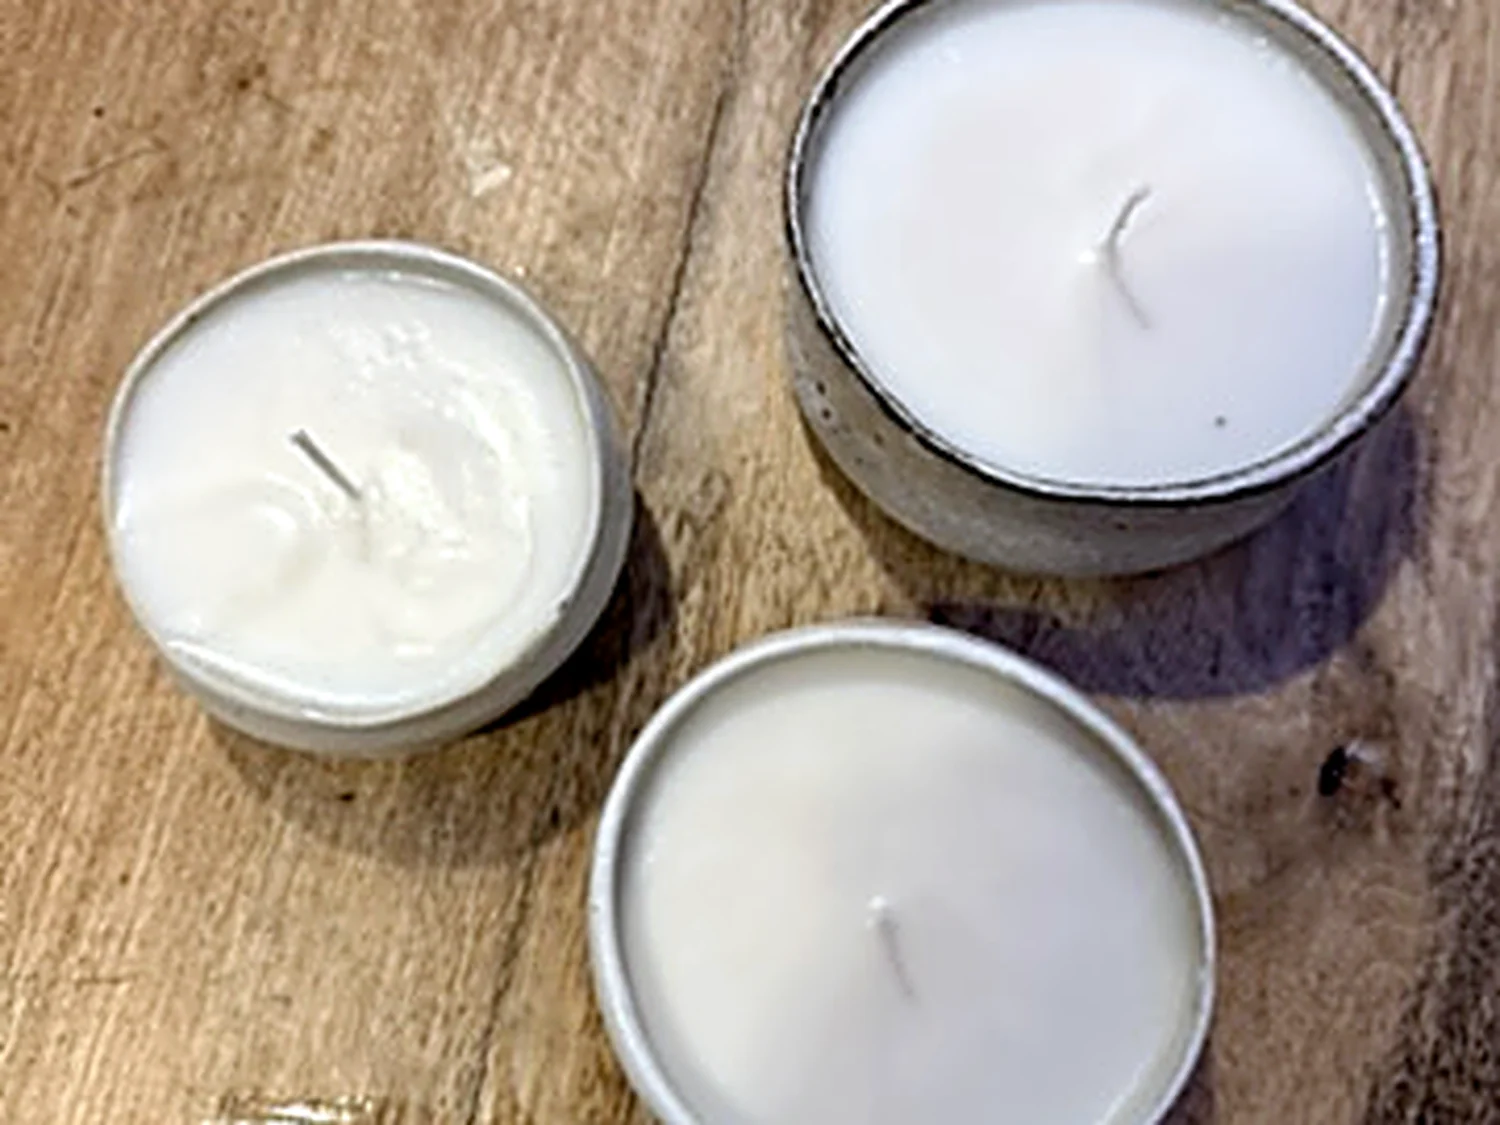
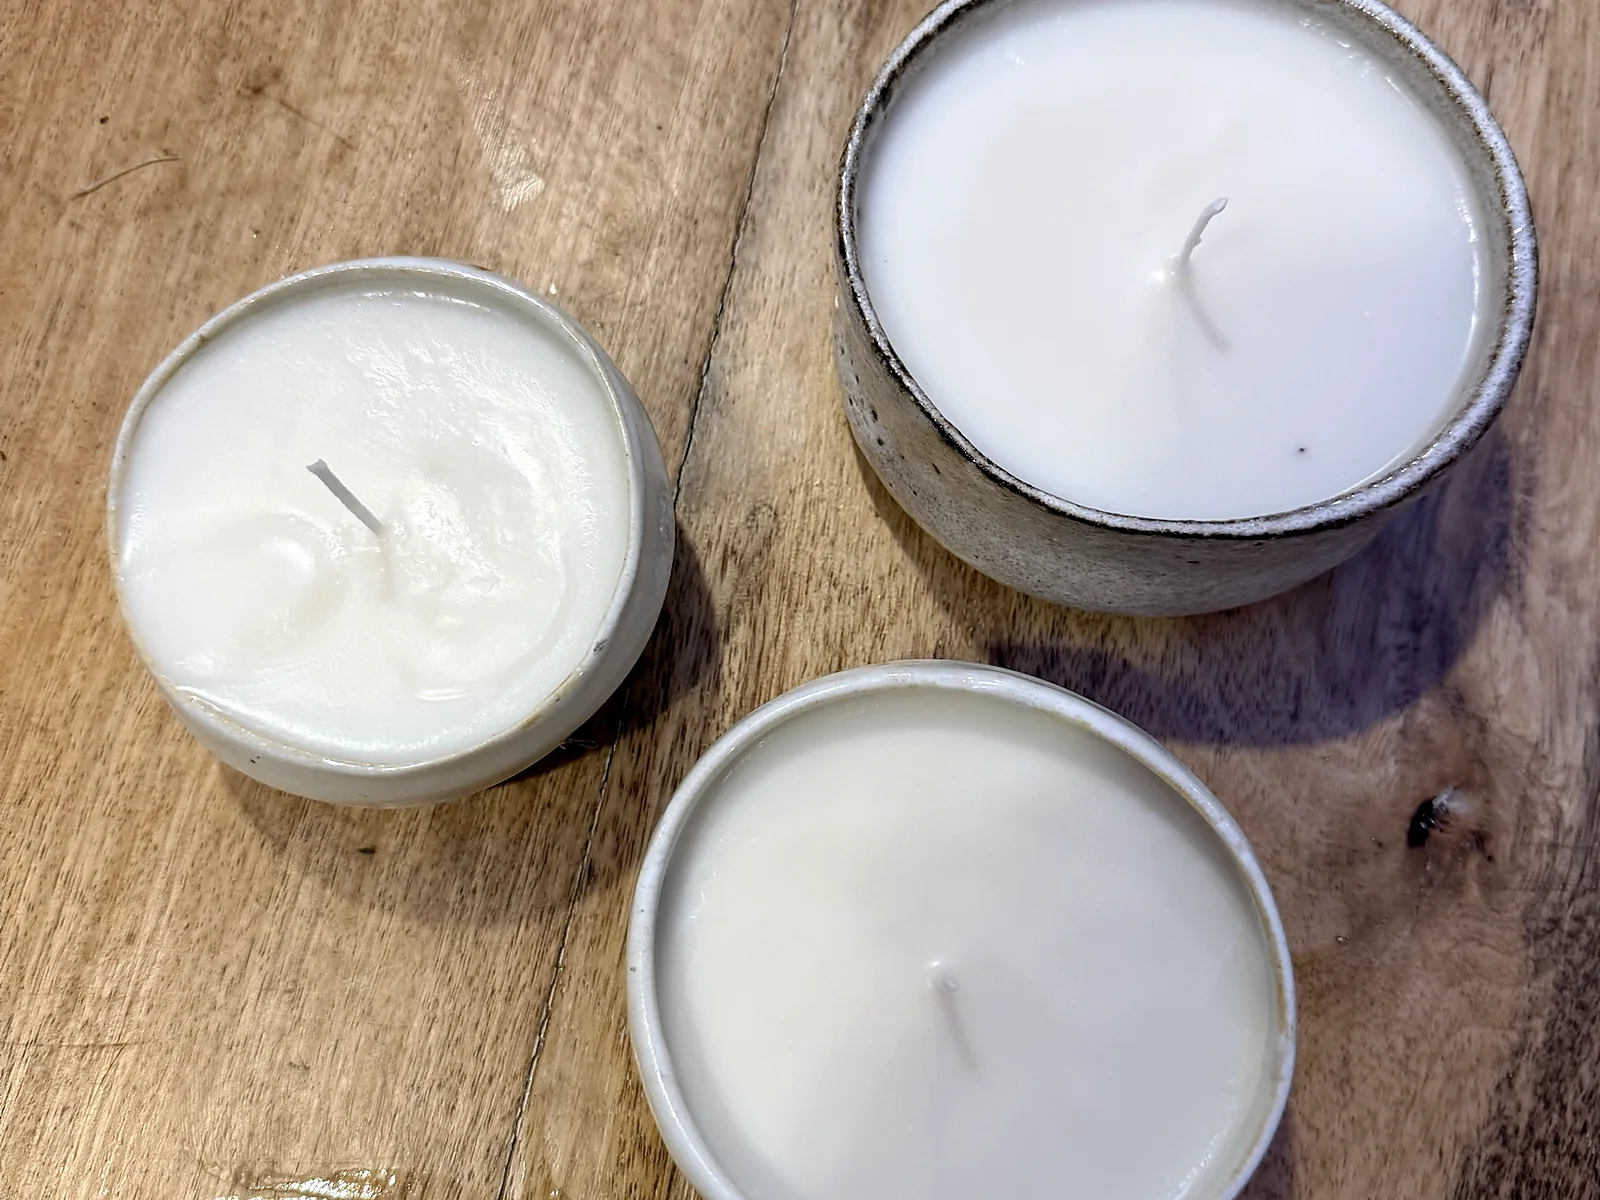
Add four pieces, and replace the candle photographs with the originals
Four new entries from the owner's photographs, each named for the
technique she described: a candle with cobalt run down over white, and
three small bowls that differ in both forming and glazing — one plain
white glaze over speckled clay, one whose glaze breaks into clouds
inside, and one pinched rather than thrown, keeping every mark of the
hand.

The two candle photographs added yesterday came through at 360x480 and
were soft. These are the same shots at 1512x2016 and 1932x2576, so they
now match the rest.

All nine were colour corrected the same way: the wax and the white glaze
read white instead of yellow, and the wood loses its orange cast. The
galaxy bowl was graded separately so the blues in its glaze survive the
correction rather than being neutralised with the rest.

The home page hero is now the three bowls together, which shows the range
of technique better than a single piece did.

Eight pieces on the site, 4.1 MB of images in all.

Claude-Session: https://claude.ai/code/session_01HBGCxSPKHGmMVJt7C3yJTt

diff --git a/js/products.js b/js/products.js
@@ -22,6 +22,52 @@ window.PRODUCTS = [
     featured: true
   },
   {
+    id: "blue-candle",
+    name: "Blue-Rimmed Candle",
+    name_el: "Κερί με Μπλε Χείλος",
+    desc: "Cobalt poured over the rim and left to run down the white, stopping where it wanted to. Filled with soy wax; wash it out when the candle is done and keep the bowl.",
+    desc_el: "Κοβάλτιο χυμένο από το χείλος, αφημένο να τρέξει πάνω στο λευκό και να σταματήσει όπου θέλησε. Γεμισμένο με κερί σόγιας· όταν τελειώσει, το πλένετε και κρατάτε το μπολ.",
+    category: "candles",
+    image: "assets/img/blue-candle.webp",
+    photo: true,
+    made: "2026-11",
+    featured: true
+  },
+  {
+    id: "galaxy-bowl",
+    name: "Galaxy Bowl",
+    name_el: "Μπολ Γαλαξίας",
+    desc: "A glaze that breaks into clouds and drifts inside the bowl — blues and greens settling where the fire took them. Plain white outside, so the inside does all the talking.",
+    desc_el: "Ένα γυάλωμα που σπάει σε σύννεφα μέσα στο μπολ — μπλε και πράσινα που κάθισαν όπου τα πήγε η φωτιά. Απ' έξω σκέτο λευκό, ώστε να μιλάει μόνο το μέσα.",
+    category: "bowls",
+    image: "assets/img/galaxy-bowl.webp",
+    photo: true,
+    made: "2026-11",
+    featured: true
+  },
+  {
+    id: "pinched-bowl",
+    name: "Pinched Bowl",
+    name_el: "Τσιμπητό Μπολ",
+    desc: "Built by pinching the clay between finger and thumb instead of throwing it, so the wall keeps every mark of being made. The rim rises and falls where the hand left it.",
+    desc_el: "Φτιαγμένο με τσίμπημα του πηλού ανάμεσα σε δάχτυλα, όχι στον τροχό, οπότε το τοίχωμα κρατάει κάθε σημάδι του φτιαξίματος. Το χείλος ανεβοκατεβαίνει εκεί που το άφησε το χέρι.",
+    category: "bowls",
+    image: "assets/img/pinched-bowl.webp",
+    photo: true,
+    made: "2026-11"
+  },
+  {
+    id: "white-bowl",
+    name: "White Bowl",
+    name_el: "Λευκό Μπολ",
+    desc: "A plain white glaze over speckled clay, and nothing else. The dark flecks come up through it in the firing — the only decoration is the clay itself.",
+    desc_el: "Σκέτο λευκό γυάλωμα πάνω σε πηλό με στίγματα, και τίποτα άλλο. Τα σκούρα στίγματα ανεβαίνουν μέσα από αυτό στο ψήσιμο — το μόνο στολίδι είναι ο ίδιος ο πηλός.",
+    category: "bowls",
+    image: "assets/img/white-bowl.webp",
+    photo: true,
+    made: "2026-11"
+  },
+  {
     id: "crackle-bowl",
     name: "Crackle Bowl",
     name_el: "Μπολ Κρακελέ",

diff --git a/el/index.html b/el/index.html
@@ -58,7 +58,7 @@
         </div>
       </div>
       <div class="hero__art hero__art--photo">
-        <img src="../assets/img/crackle-bowl-wide.webp" alt="Μπολ με ανομοιόμορφο χείλος και λευκό κρακελέ γυάλωμα πάνω σε καφέ" width="1600" height="1200">
+        <img src="../assets/img/three-bowls-wide.webp" alt="Τρία μικρά μπολ δίπλα δίπλα: σκέτο λευκό, τσιμπητό, και ένα με μπλε-πράσινο γυάλωμα μέσα" width="1600" height="1200">
       </div>
     </div>
   </section>

diff --git a/index.html b/index.html
@@ -58,7 +58,7 @@
         </div>
       </div>
       <div class="hero__art hero__art--photo">
-        <img src="assets/img/crackle-bowl-wide.webp" alt="A bowl with an uneven rim and a white crackle glaze over brown" width="1600" height="1200">
+        <img src="assets/img/three-bowls-wide.webp" alt="Three small bowls side by side: plain white, pinched, and one with a blue-green glaze pooling inside" width="1600" height="1200">
       </div>
     </div>
   </section>
